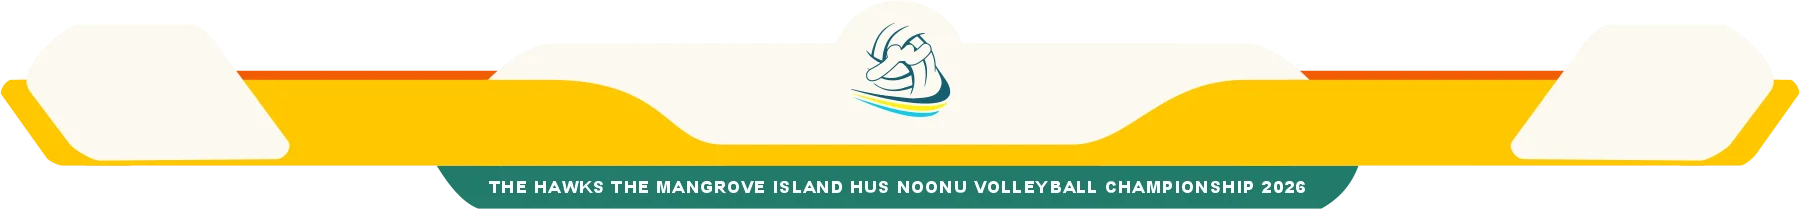
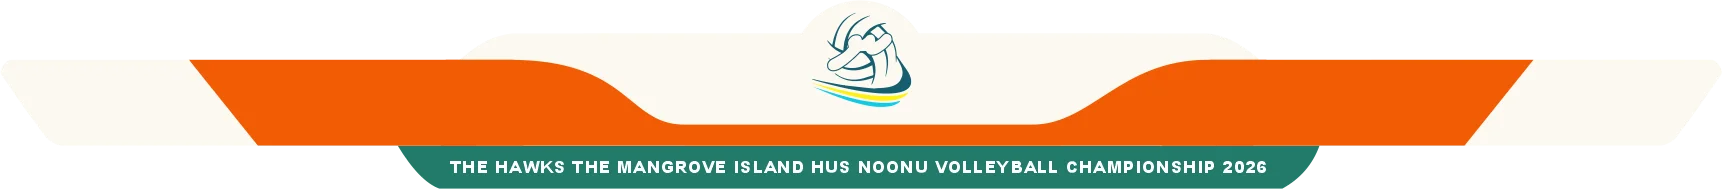
scoreboard changes

diff --git a/app/(site)/scoreboard/page.client.tsx b/app/(site)/scoreboard/page.client.tsx
@@ -59,50 +59,50 @@ export default function ScorePage({ teams, scores }: Props) {
     <div className="w-480 flex justify-center ">
       <div className="relative">
         <img src="/score.webp" alt="" />
-        <div className="absolute top-7 left-15">
-          <div className=" rounded-full overflow-hidden w-40 h-32.5 flex items-center justify-center">
+        <div className="absolute top-15.75 left-12">
+          <div className=" rounded-full overflow-hidden w-40 h-20 flex items-center justify-center">
             <Image
               width={200}
               height={120}
               alt="Kendhikulhudhoo"
               src={`${process.env.NEXT_PUBLIC_IMAGES_URL}${team1?.logo}`}
-              className="h-30 w-auto"
+              className="h-18 w-auto"
             />
           </div>
         </div>
-        <div className="absolute top-7 right-15">
-          <div className="rounded-full overflow-hidden  w-40 h-32.5 flex items-center justify-center">
+        <div className="absolute top-15.75 right-12">
+          <div className=" rounded-full overflow-hidden  w-40 h-20 flex items-center justify-center">
             <Image
               width={200}
               height={120}
               alt="Kendhikulhudhoo"
               src={`${process.env.NEXT_PUBLIC_IMAGES_URL}${team2?.logo}`}
-              className="h-30 w-auto"
+              className="h-18 w-auto"
             />
           </div>
         </div>
-        <div className="absolute top-20.75 right-77.5">
-          <div className="  w-54 h-20 flex items-center justify-center">
+        <div className="absolute top-15.75 right-65.5">
+          <div className="  w-56 h-20 flex items-center justify-center">
             <h2 className="uppercase font-black text-white text-2xl text-center">
               {team2?.name}
             </h2>
           </div>
         </div>
-        <div className="absolute top-20.75 left-77.5">
-          <div className="  w-54 h-20 flex items-center justify-center">
+        <div className="absolute top-15.75 left-65.5">
+          <div className=" w-56 h-20 flex items-center justify-center">
             <h2 className="uppercase font-black text-white text-2xl text-center">
               {team1?.name}
             </h2>
           </div>
         </div>
-        <div className="absolute top-13.75 left-180">
+        <div className="absolute top-9.75 left-170">
           <div className=" w-20 h-20 flex items-center justify-center">
             <h2 className="uppercase font-black text-5xl text-center text-black">
               {sets[sets.length - 1].team1_score}
             </h2>
           </div>
         </div>
-        <div className="absolute top-13.75 right-180">
+        <div className="absolute top-9.75 right-170">
           <div className=" w-20 h-20 flex items-center justify-center">
             <h2 className="uppercase font-black text-5xl text-center text-black">
               {sets[sets.length - 1].team2_score}
@@ -110,27 +110,31 @@ export default function ScorePage({ teams, scores }: Props) {
           </div>
         </div>
 
-        <div className="absolute top-20.75 left-132">
+        <div className="absolute top-16.25 left-126">
           <div className="  w-20 h-20 flex items-center justify-center">
             <div className="h-16 border-l-2 border-white pl-5">
-              <h2 className="uppercase font-semibold text-white text-lg text-center">
-                SETS
-              </h2>
-              <p className="uppercase font-black text-white text-xl text-center">
-                {getSetNumber(1)}
-              </p>
+              <div className="h-16 flex flex-col items-center justify-center">
+                <h2 className="uppercase font-semibold text-white text-lg text-center">
+                  SETS
+                </h2>
+                <p className="uppercase font-black text-white text-xl text-center">
+                  {getSetNumber(1)}
+                </p>
+              </div>
             </div>
           </div>
         </div>
-        <div className="absolute top-20.75 right-132">
+        <div className="absolute top-16.25 right-126">
           <div className="  w-20 h-20 flex items-center justify-center">
             <div className="h-16 border-r-2 border-white pr-5">
-              <h2 className="uppercase font-semibold text-white text-lg text-center">
-                SETS
-              </h2>
-              <p className="uppercase font-black text-white text-xl text-center">
-                {getSetNumber(2)}
-              </p>
+              <div className="h-16 flex flex-col items-center justify-center">
+                <h2 className="uppercase font-semibold text-white text-lg text-center">
+                  SETS
+                </h2>
+                <p className="uppercase font-black text-white text-xl text-center">
+                  {getSetNumber(2)}
+                </p>
+              </div>
             </div>
           </div>
         </div>

diff --git a/app/(site)/last-ten/page.client.tsx b/app/(site)/last-ten/page.client.tsx
@@ -29,44 +29,48 @@ export default function TopTenPage({ scores }: Props) {
     };
   }, []);
   return (
-    <div className="mx-auto py-5">
-      <div className="bg-white/40 w-60 h-140 backdrop-blur-md rounded-xl shadow">
+    <div className="mx-auto py-5 h-271 ">
+      <div className="bg-[#fdf9f1]/40 w-74 h-201 backdrop-blur-md rounded-xl shadow">
         <div className="py-5">
-          <h2 className="text-center text-neutral-800 mb-2 text-lg font-semibold">
+          <h2 className="text-center text-neutral-800 mb-2 text-xl font-semibold">
             Last 10 Points
           </h2>
           {tops
             .slice(-10)
             .reverse()
             .map((top, index) => (
-              <div key={index} className="grid grid-cols-2">
-                <div className="border-r border-gray-300 flex justify-end">
+              <div key={index} className="grid grid-cols-2 ">
+                <div className="border-r border-gray-300 flex justify-end pb-7">
                   {top.team.id === team1.id && (
                     <div className="py-2 px-3 flex items-center space-x-2">
-                      <p className="text-lg">{top.score}</p>
-                      <img src="/ball.png" className="w-6 h-6" alt="Ball" />
+                      <p className="text-2xl font-semibold">{top.score}</p>
+                      <img src="/ball.png" className="w-8 h-8" alt="Ball" />
                     </div>
                   )}
                 </div>
                 <div>
                   {top.team.id === team2.id && (
                     <div className="py-2 px-3 flex items-center space-x-2">
-                      <img src="/ball.png" className="w-6 h-6" />
-                      <p className="text-lg">{top.score}</p>
+                      <img src="/ball.png" className="w-8 h-8" />
+                      <p className="text-2xl font-semibold">{top.score}</p>
                     </div>
                   )}
                 </div>
               </div>
             ))}
           <div className="grid grid-cols-2">
-            <div className="border-r border-gray-300 flex justify-end">
-              <div className="py-2 px-3 flex items-center space-x-2">
-                <p className="text-lg">{team1?.name}</p>
+            <div className="border-r border-gray-300 flex justify-center">
+              <div className="py-2 px-3 flex items-center space-x-2 justify-center">
+                <p className="text-2xl font-semibold text-center">
+                  {team1?.name}
+                </p>
               </div>
             </div>
             <div>
-              <div className="py-2 px-3 flex items-center space-x-2">
-                <p className="text-lg">{team2?.name}</p>
+              <div className="py-2 px-3 flex items-center space-x-2  justify-center">
+                <p className="text-2xl font-semibold text-center">
+                  {team2?.name}
+                </p>
               </div>
             </div>
           </div>

diff --git a/app/(site)/page.client.tsx b/app/(site)/page.client.tsx
@@ -40,18 +40,18 @@ export default function ScoreFrontPage({ teams, scores }: Props) {
     <div>
       <div className="bg-[#fdf9f1] text-black font-semibold h-9 min-w-55 mb-1 rounded-lg w-80">
         <div className="flex items-center h-9 justify-between">
-          <div className="flex items-center py-1 pl-3">
+          <div className="flex items-center py-1 pl-3 text-lg">
             <h2 id="team1-name">{team1?.name || "Team 1"}</h2>
           </div>
 
           <div className="flex items-center space-x-3">
-            <div className="flex items-center h-9 py-1">
+            <div className="flex items-center h-10 py-1">
               <Image
                 src={`${process.env.NEXT_PUBLIC_IMAGES_URL}${team1?.logo}`}
                 alt={team1?.name || "Team 1"}
                 width={50}
                 height={50}
-                className="h-7 w-7 rounded-full"
+                className="h-8 w-8 rounded-full"
               />
             </div>
 
@@ -68,25 +68,25 @@ export default function ScoreFrontPage({ teams, scores }: Props) {
       </div>
       <div className="bg-[#fdf9f1] text-black font-semibold h-9 min-w-55  rounded-lg w-80">
         <div className="flex items-center h-9 justify-between">
-          <div className="flex items-center py-1 pl-3">
+          <div className="flex items-center py-1 pl-3 text-lg">
             <h2 id="team2-name">{team2?.name || "Team 2"}</h2>
           </div>
 
           <div className="flex items-center space-x-3">
-            <div className="flex items-center h-9 py-1">
+            <div className="flex items-center h-10 py-1">
               <Image
                 src={`${process.env.NEXT_PUBLIC_IMAGES_URL}${team2?.logo}`}
                 alt={team2?.name || "Team 2"}
                 width={50}
                 height={50}
-                className="h-7 w-7 rounded-full"
+                className="h-8 w-8 rounded-full"
               />
             </div>
 
             {sets.map((set, index) => (
               <div
                 key={index}
-                className="m-0 w-9 h-9 bg-white text-blue-700 font-semibold flex items-center justify-center last:rounded-r-lg last:bg-[#f25c05] last:text-white"
+                className="text-lg m-0 w-9 h-9 bg-white text-blue-700 font-semibold flex items-center justify-center last:rounded-r-lg last:bg-[#f25c05] last:text-white"
               >
                 <h3 id={`team2-score-${index}`}>{set.team2_score || 0}</h3>
               </div>
